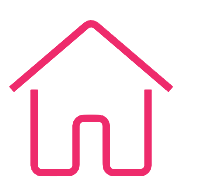
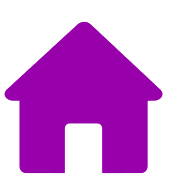
novo design

diff --git a/src/main/java/org/example/demo2/User.java b/src/main/java/org/example/demo2/User.java
@@ -5,10 +5,7 @@ import javafx.fxml.FXML;
 import javafx.fxml.FXMLLoader;
 import javafx.geometry.Insets;
 import javafx.scene.Scene;
-import javafx.scene.control.Alert;
-import javafx.scene.control.Label;
-import javafx.scene.control.ScrollPane;
-import javafx.scene.control.TextField;
+import javafx.scene.control.*;
 import javafx.scene.layout.Pane;
 import javafx.scene.layout.Priority;
 import javafx.scene.layout.VBox;
@@ -23,6 +20,12 @@ public class User {
     private List<Avaliacao> musicasAvl;
     private Avaliacao avaliacaoSelecionada;
     private List<Musics> musicas;
+
+    private final String estiloPadrao = "-fx-background-color: transparent;";
+    private final String estiloAtivo = "-fx-background-color: transparent; " +
+            "-fx-border-color: transparent transparent #6e1fb7 transparent; " +
+            "-fx-border-width: 0 0 2px 0;";
+
 
     @FXML private Pane Pane_Home;
     @FXML private Pane Pane_Review;
@@ -39,6 +42,9 @@ public class User {
     @FXML private ScrollPane scrollPaneMusicas;
     @FXML private ScrollPane scrollPaneReview;
     @FXML private ScrollPane scrollPaneList;
+    @FXML private Button btn_home;
+    @FXML private Button btn_review;
+    @FXML private Button btn_list;
 
     @FXML
     public void initialize() {
@@ -79,6 +85,7 @@ public class User {
         Pane_Home.setVisible(true);
         Pane_Home.setManaged(true);
         listarMusicas(musicas);
+        setBotaoAtivo(btn_home);
     }
 
     public void exibirPaneReview(){
@@ -86,7 +93,7 @@ public class User {
         Pane_Review.setVisible(true);
         Pane_Review.setManaged(true);
         ListarAvaliacoes(musicasAvl);
-
+        setBotaoAtivo(btn_review);
     }
 
     public void exibirPaneList(){
@@ -94,7 +101,17 @@ public class User {
         Pane_List.setVisible(true);
         Pane_List.setManaged(true);
         listarUsuarioMusicas(musicasAvl);
+        setBotaoAtivo(btn_list);
+    }
 
+    private void setBotaoAtivo(Button botaoAtivo) {
+        // Remove estilo ativo de todos
+        btn_home.setStyle(estiloPadrao);
+        btn_review.setStyle(estiloPadrao);
+        btn_list.setStyle(estiloPadrao);
+
+        // Aplica estilo no botão clicado
+        botaoAtivo.setStyle(estiloAtivo);
     }
 
     public void listarMusicas(List<Musics> musicas) {
@@ -102,7 +119,7 @@ public class User {
 
         for (Musics musicaObj : musicas) {
             Label musica = new Label(musicaObj.toString());
-            musica.setStyle("-fx-font-size: 14px; -fx-text-fill: #ee2b6c; -fx-font-weight: bold; -fx-background-color: #fff; -fx-padding: 5px; -fx-background-radius: 5px");
+            musica.setStyle("-fx-font-size: 14px; -fx-text-fill: #fff; -fx-font-weight: bold; -fx-background-color: #6e1fb7; -fx-padding: 5px; -fx-background-radius: 5px; -fx-pref-width:300px;");
             VBox.setVgrow(scrollPaneMusicas, Priority.ALWAYS);
             VBox.setMargin(musica, new Insets(2)); // importa javafx.geometry.Insets
 
@@ -160,7 +177,7 @@ public class User {
         vboxReview.getChildren().clear();
         for (Avaliacao m : musicasAvl) {
             Label musica = new Label(m.mostrarAvaliacao());
-            musica.setStyle("-fx-font-size: 14px; -fx-text-fill: #ee2b6c; -fx-font-weight: bold; -fx-background-color: #fff; -fx-padding: 5px; -fx-background-radius: 5px");
+            musica.setStyle("-fx-font-size: 14px; -fx-text-fill: #fff; -fx-font-weight: bold; -fx-background-color: #6e1fb7; -fx-padding: 5px; -fx-background-radius: 5px; -fx-pref-width:300px;");
             VBox.setVgrow(scrollPaneReview, Priority.ALWAYS);
             VBox.setMargin(musica, new Insets(2));
 
@@ -179,7 +196,7 @@ public class User {
         for (Avaliacao musica : musicasAvl) {
             if (musica.getNomeUsuario().equals(nomeUsuarioLogado)) {
                 Label musicaAvl = new Label(musica.mostrarAvaliacao());
-                musicaAvl.setStyle("-fx-font-size: 14px; -fx-text-fill: #ee2b6c; -fx-font-weight: bold; -fx-background-color: #fff; -fx-padding: 5px; -fx-background-radius: 5px");
+                musicaAvl.setStyle("-fx-font-size: 14px; -fx-text-fill: #fff; -fx-font-weight: bold; -fx-background-color: #6e1fb7; -fx-padding: 5px; -fx-background-radius: 5px; -fx-pref-width:300px;");
                 VBox.setVgrow(scrollPaneList, Priority.ALWAYS);
                 VBox.setMargin(musicaAvl, new Insets(2));
                 vboxList.getChildren().add(musicaAvl);
